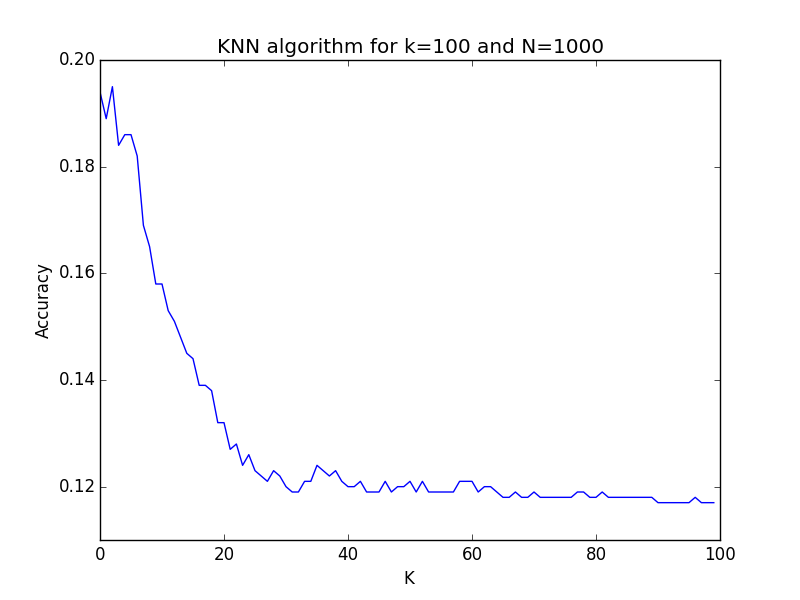
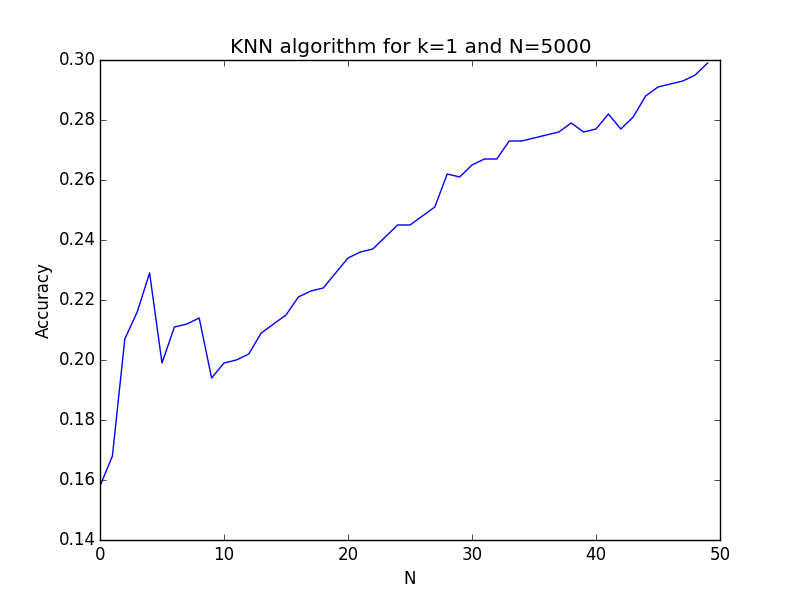
fix ylabel for the 2 graphs

diff --git a/HW1/NearestNeighbor.py b/HW1/NearestNeighbor.py
@@ -111,15 +111,16 @@ def run_knn(train, train_labels, test, test_labels, k, n):
     return accuracy
 
 
-def plot_graph(accuracy_lst, K, NOF_TRAINING_DATA, label=''):
+def plot_graph(accuracy_lst, K, NOF_TRAINING_DATA, label='', ylabel=''):
     """
     This function will save and plot graph of accuracy vs K
     :param accuracy_lst: the accuracy results for each k
     """
+    plt.figure()
     plt.plot(accuracy_lst)
     plt.title("KNN algorithm for k={0} and N={1}".format(K, NOF_TRAINING_DATA))
     plt.ylabel('Accuracy')
-    plt.xlabel('K')
+    plt.xlabel(ylabel)
     plt.savefig('{}.png'.format(label))
 
 
@@ -134,7 +135,7 @@ def get_accuracy_of_k(K=100, NOF_TRAINING_DATA=1000):
         # Append the accuracy results
         accuracy_lst.append(accuracy)
     # Plot and save the image
-    plot_graph(accuracy_lst, K, NOF_TRAINING_DATA, label="graph_N_fixed")
+    plot_graph(accuracy_lst, K, NOF_TRAINING_DATA, label="graph_N_fixed", ylabel='K')
 
 
 def get_accuracy_of_n(K=1, NOF_TRAINING_DATA=5000):
@@ -149,7 +150,7 @@ def get_accuracy_of_n(K=1, NOF_TRAINING_DATA=5000):
         # Append the accuracy results
         accuracy_lst.append(accuracy)
     # Plot and save the image
-    plot_graph(accuracy_lst, K, NOF_TRAINING_DATA, label="graph_K_fixed")
+    plot_graph(accuracy_lst, K, NOF_TRAINING_DATA, label="graph_K_fixed", ylabel='N')
 
 
 if __name__ == '__main__':
